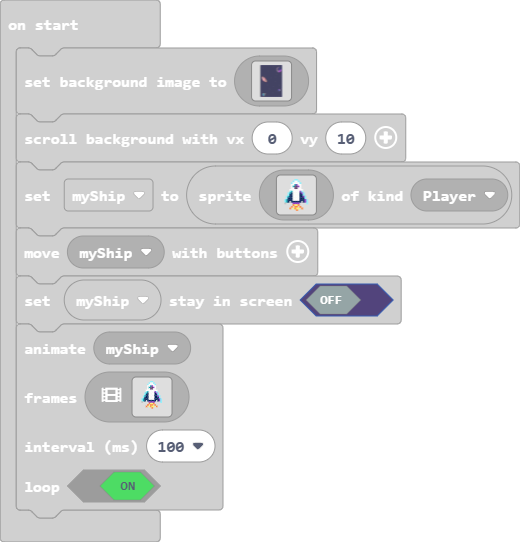
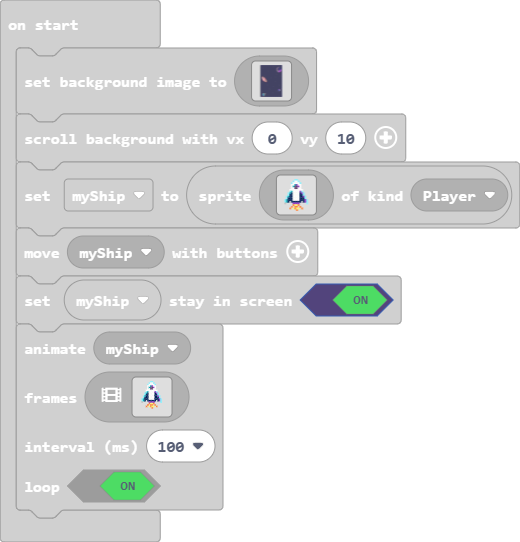
Update main.blocks, main.ts

Changed region(s): [[0.5846, 0.5018, 0.7385, 0.5904]]

diff --git a/main.ts b/main.ts
@@ -297,7 +297,7 @@ myShip = sprites.create(img`
     . . . . . . . 4 . . . . . . 
     `, SpriteKind.Player)
 controller.moveSprite(myShip)
-myShip.setStayInScreen(false)
+myShip.setStayInScreen(true)
 animation.runImageAnimation(
 myShip,
 [img`
